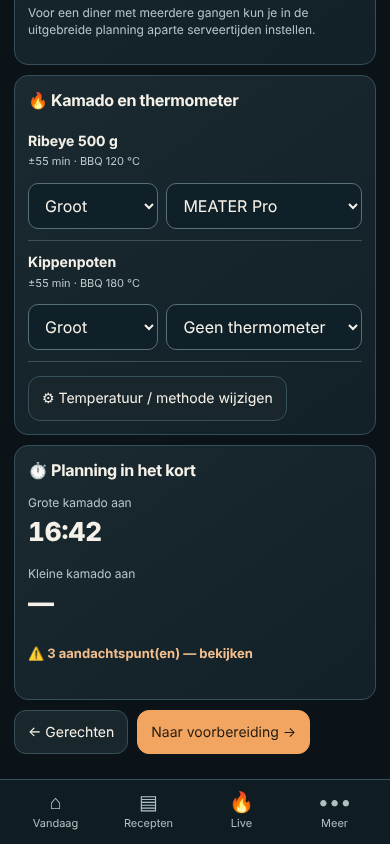
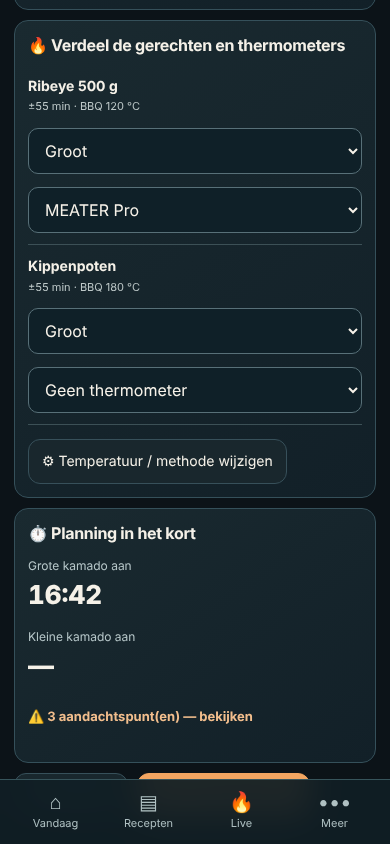
fix(setup): thermometerkeuze stapelt op smalle schermen; kop behouden
- WebKit HA-iframe 320 px: selects onder elkaar onder 420 px, geen
  horizontale overflow meer (tests/mobile-bounds.mjs).
- Kop "Verdeel de gerechten en thermometers" (tests/v5-smoke.mjs).
- Optielabel "(bezet)" korter; screenshots stap 2 bijgewerkt.

Claude-Session: https://claude.ai/code/session_01RTuSQgTnLaLFsk6X7ZHvEw

diff --git a/dist/bbq-v5.js b/dist/bbq-v5.js
@@ -83,7 +83,7 @@ window.initBBQV5=function(b){
       '<label class="v5-field">Beschikbaar vanaf<span class="v5-input-frame"><input class="v5-input" type="time" data-v5-setting="availableFrom" value="'+escape(s.availableFrom)+'"></span></label>'+
       '<label class="v5-field">Aantal personen<span class="v5-input-frame"><input class="v5-input" type="number" min="1" max="50" data-v5-setting="v45People" value="'+escape(s.v45People||4)+'"></span></label>'+
     '</div><p class="v5-muted">Voor een diner met meerdere gangen kun je in de uitgebreide planning aparte serveertijden instellen.</p></div>'+
-    '<div class="v5-card"><h3>🔥 Kamado en thermometer</h3>'+dishes().map(d=>'<div class="v5-dishline v5-setup-dish"><div><strong>'+escape(d.name)+'</strong><small>±'+escape(d.cook)+' min · BBQ '+escape(d.grill)+' °C</small></div>'+
+    '<div class="v5-card"><h3>🔥 Verdeel de gerechten en thermometers</h3>'+dishes().map(d=>'<div class="v5-dishline v5-setup-dish"><div><strong>'+escape(d.name)+'</strong><small>±'+escape(d.cook)+' min · BBQ '+escape(d.grill)+' °C</small></div>'+
       '<div class="v5-setup-selects"><select class="v5-input" aria-label="Kamado voor '+escape(d.name)+'" data-v5-kamado="'+escape(d.id)+'"><option value="large"'+(d.kamado==='large'?' selected':'')+'>Groot</option><option value="small"'+(d.kamado==='small'?' selected':'')+'>Klein</option></select>'+
       meaterSelect(d)+'</div></div>').join('')+
       '<div class="v5-row" style="margin-top:14px">'+action('⚙ Temperatuur / methode wijzigen','planning')+'</div></div>'+
@@ -130,7 +130,7 @@ window.initBBQV5=function(b){
     const value=hasProbe(d)?d.meater:'none';
     return '<select class="v5-input" aria-label="Thermometer voor '+escape(d.name)+'" data-v5-meater="'+escape(d.id)+'">'+
       '<option value="none"'+(value==='none'?' selected':'')+'>Geen thermometer</option>'+
-      ['pro','plus'].map(k=>'<option value="'+k+'"'+(value===k?' selected':'')+(used(k)&&value!==k?' disabled':'')+'>'+PROBE_LABEL[k]+(used(k)&&value!==k?' (in gebruik)':'')+'</option>').join('')+'</select>';
+      ['pro','plus'].map(k=>'<option value="'+k+'"'+(value===k?' selected':'')+(used(k)&&value!==k?' disabled':'')+'>'+PROBE_LABEL[k]+(used(k)&&value!==k?' (bezet)':'')+'</option>').join('')+'</select>';
   }
   const temp=(v,digits=1)=>Number(v).toLocaleString('nl-NL',{minimumFractionDigits:digits,maximumFractionDigits:digits});
   const goalOf=d=>{const g=Number(d?.core);return d&&d.core!==''&&d.core!=null&&Number.isFinite(g)&&g>0?g:null};

diff --git a/dist/bbq-v520.css b/dist/bbq-v520.css
@@ -136,4 +136,7 @@ body.v5-ready.v5-legacy #v5-back{background:#192d34;color:var(--v5-text);border:
 /* Stap 2: kamado en thermometer naast elkaar, op smalle schermen onder de naam. */
 #v5-root .v5-setup-dish{display:grid;grid-template-columns:minmax(0,1fr);gap:8px}
 #v5-root .v5-setup-selects{display:grid;grid-template-columns:minmax(0,2fr) minmax(0,3fr);gap:8px;min-width:0}
-#v5-root .v5-setup-selects select{max-width:100%;width:100%;min-width:0;min-height:44px}
+#v5-root .v5-setup-dish>*{min-width:0}
+#v5-root .v5-setup-selects select{max-width:100%;width:100%;min-width:0;min-height:44px;overflow:hidden;text-overflow:ellipsis}
+/* WebKit houdt een minimale selectbreedte aan: op smalle schermen (ook de HA-iframe) onder elkaar. */
+@media (max-width:420px){#v5-root .v5-setup-selects{grid-template-columns:minmax(0,1fr)}}
